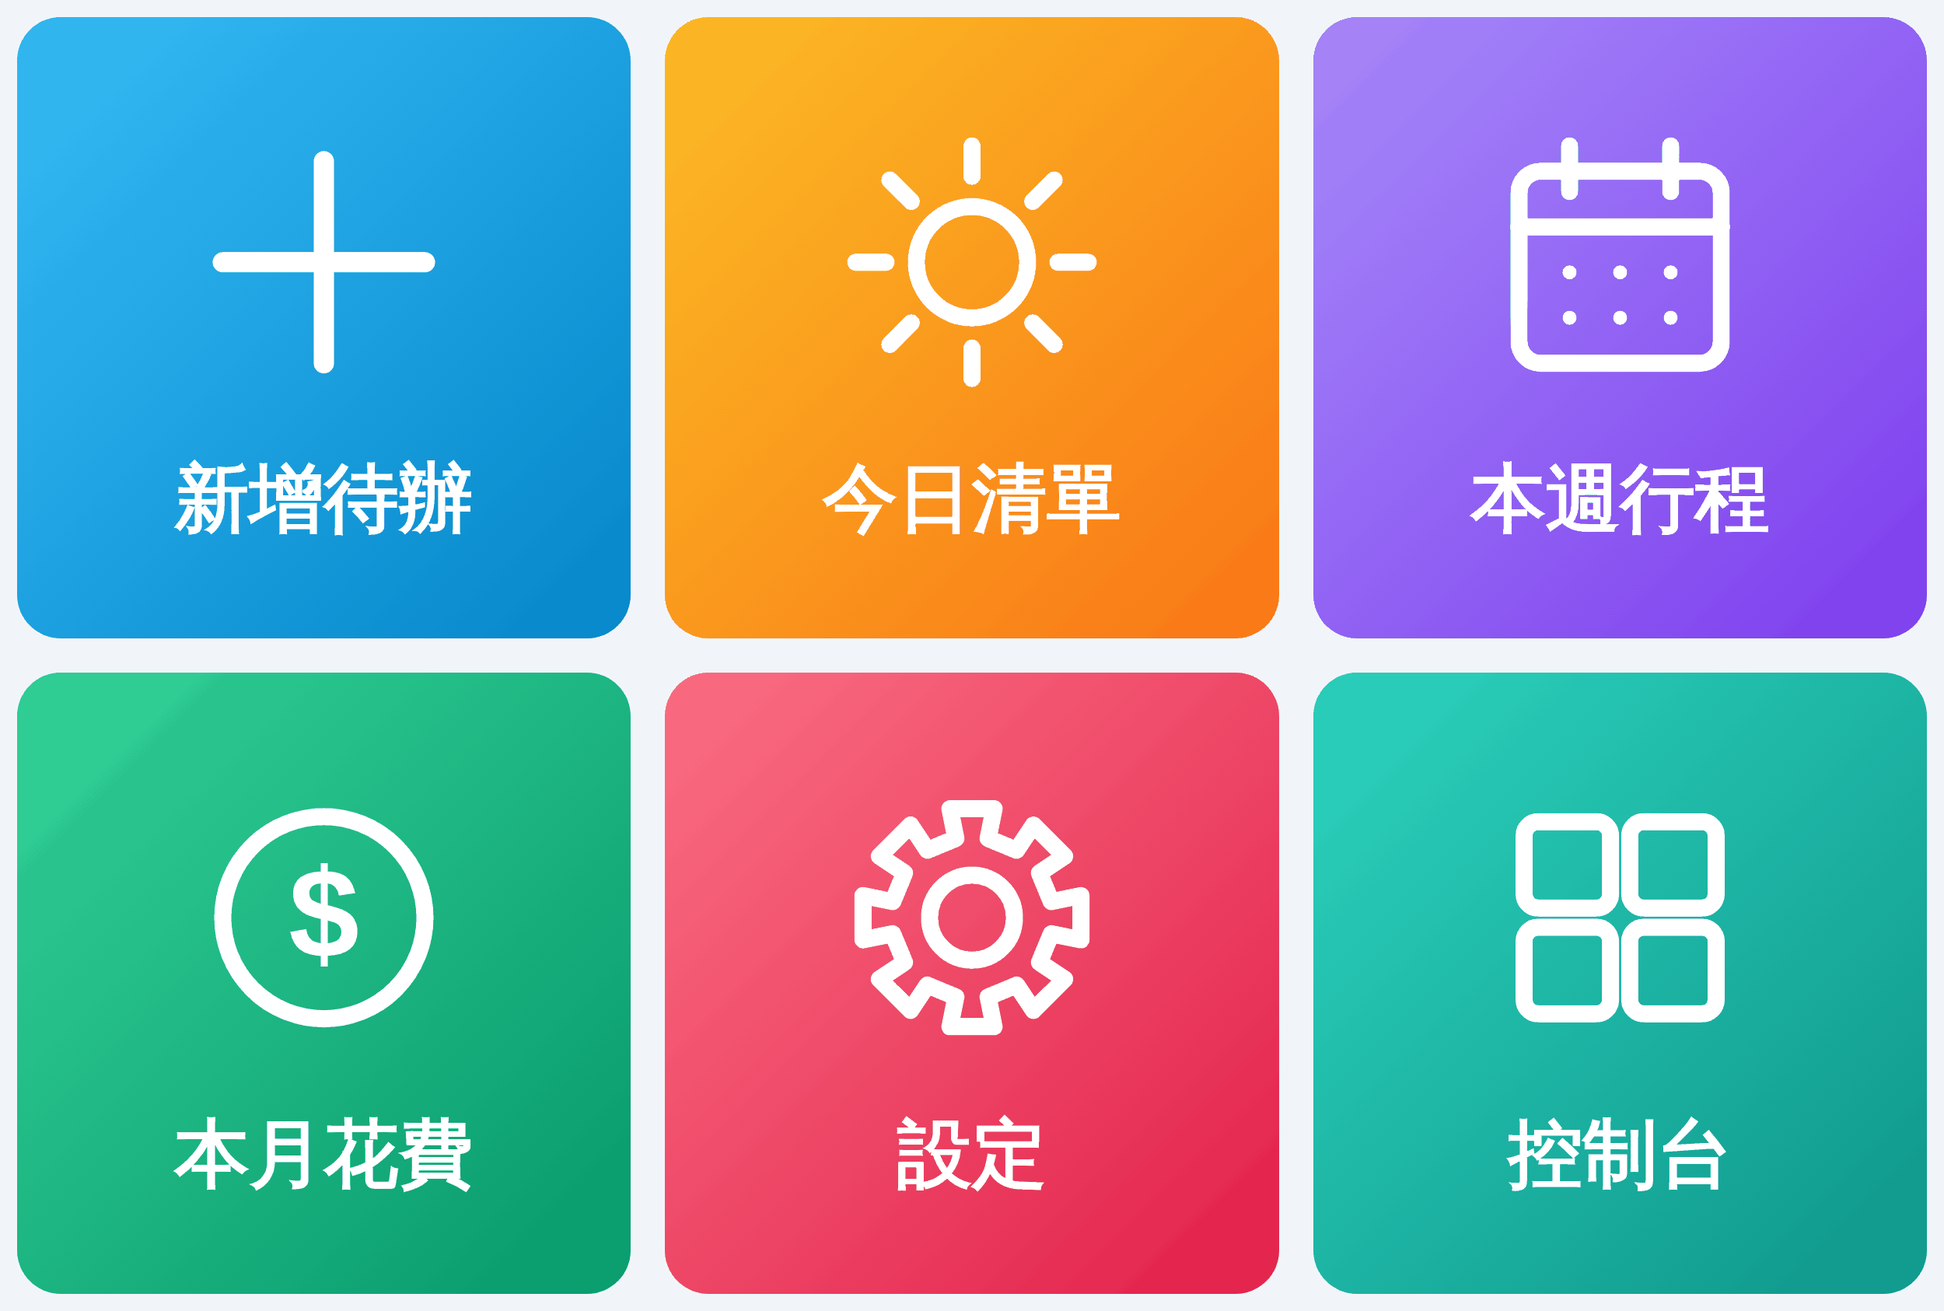
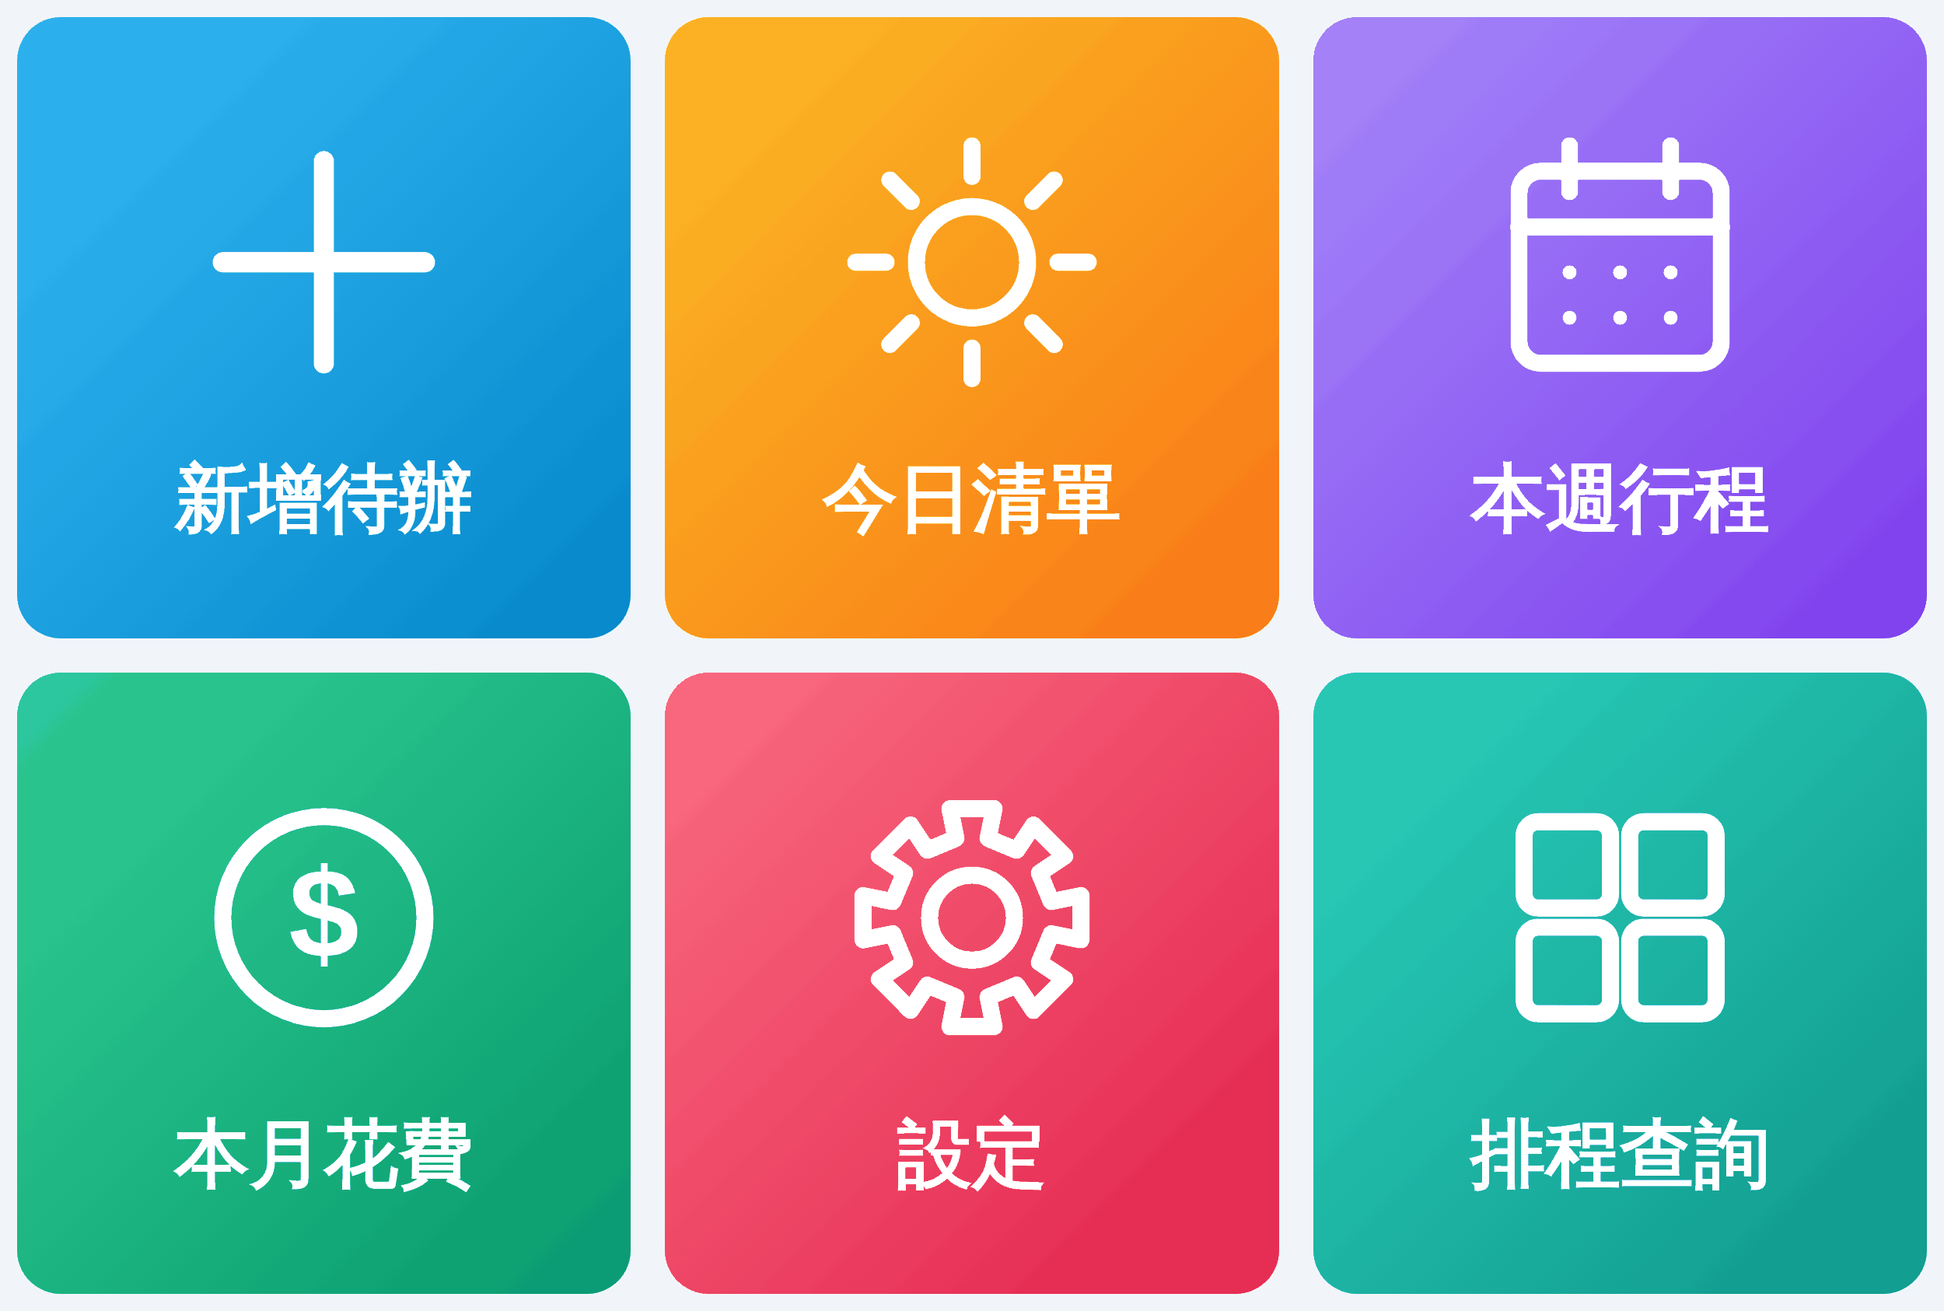
Add files via upload

Changed region(s): [[0.7488, 0.8327, 0.936, 0.9253]]

diff --git a/index.html b/index.html
@@ -3,7 +3,7 @@
 <head>
 <meta charset="utf-8">
 <meta name="viewport" content="width=device-width, initial-scale=1, viewport-fit=cover">
-<title>Chronos 控制台</title>
+<title>Chronos 排程查詢</title>
 <meta name="description" content="克羅諾斯智慧助理：待辦、日曆、記帳一站管理">
 <meta name="theme-color" content="#0ea5e9">
 <link rel="manifest" href="manifest.json">
@@ -53,6 +53,15 @@ section.view.on{display:block}
 .meta{display:flex;flex-wrap:wrap;gap:6px}
 .chip{background:var(--chip);border-radius:999px;padding:2px 10px;font-size:12.5px;color:var(--muted);word-break:break-all}
 .chip.warn{color:var(--warn);background:rgba(217,119,6,.12)}
+.warnline{margin-top:8px;font-size:13px;color:var(--warn);background:rgba(217,119,6,.12);border-radius:10px;padding:6px 10px}
+.r2{display:flex;gap:6px}.set .r2 input{width:auto;min-width:0;flex:1;padding:8px 6px;font-size:14px}.set .r2{flex:1;max-width:236px}
+.blk{border:1px solid var(--line);border-radius:12px;padding:10px;margin:8px 0}
+.blk .days{display:flex;gap:4px;flex-wrap:wrap;margin-bottom:8px}
+.blk .days button{width:36px;height:36px;border-radius:50%;border:1px solid var(--line);background:var(--card);color:var(--muted);font-weight:700}
+.blk .days button.on{background:#0ea5e9;border-color:#0ea5e9;color:#fff}
+.blk .r{display:flex;gap:6px;align-items:center;margin-top:6px}.blk .r input{min-width:0}
+.blk .r input[type=time]{min-width:0}
+.blk .r input.lb{flex:1.2}
 .actions{display:flex;gap:8px;margin-top:12px}
 .btn{border:1px solid var(--line);background:var(--card);border-radius:12px;padding:9px 14px;font-weight:600;cursor:pointer;min-height:42px}
 .btn:active{transform:scale(.98)}
@@ -286,7 +295,7 @@ async function api(act, data) {
 }
 function authExpired() {
   try { if (!liff.isInClient()) { liff.logout(); liff.login({ redirectUri: location.href.split("?")[0] }); return; } } catch (e) { /* ignore */ }
-  fatal({ title: "登入逾時", body: "請關閉這個視窗，再從 LINE 選單重新開啟控制台。" }, true);
+  fatal({ title: "登入逾時", body: "請關閉這個視窗，再從 LINE 選單重新開啟排程查詢。" }, true);
 }
 async function run(fn, okMsg) {
   if (S.busy) return;
@@ -317,6 +326,7 @@ function chips(t) {
 }
 function taskCard(t, pending) {
   return '<article class="task ' + (pending ? "pending" : t.overdue ? "overdue" : "") + '" data-id="' + esc(t.id) + '"><h3>' + esc(t.name) + '</h3><div class="meta">' + chips(t) + "</div>" +
+    (pending && t.warn ? '<div class="warnline">⏰ ' + esc(t.warn) + "</div>" : "") +
     (pending ? "" : '<div class="actions"><button class="btn primary" data-act="done">✅ 完成</button><button class="btn" data-act="cal">📅 日曆</button><button class="btn ghost" data-act="cancel">取消</button></div>') + "</article>";
 }
 function renderList() {
@@ -329,7 +339,9 @@ function renderList() {
   Object.keys(batches).forEach(b => {
     h += '<div class="batch" data-batch="' + esc(b) + '"><div class="t">🟣 待審核 · ' + batches[b].length + " 項</div>" +
       batches[b].map(t => taskCard(t, true)).join("") +
-      '<div class="actions"><button class="btn primary" data-act="approve">確認無誤</button><button class="btn" data-act="adjust">調整</button><button class="btn danger" data-act="cancelBatch">全部取消</button></div>' +
+      '<div class="actions"><button class="btn primary" data-act="approve">' + (batches[b].some(t => t.warn) ? "照樣加入" : "確認無誤") + "</button>" +
+      (batches[b].some(t => t.warn) ? '<button class="btn blue" data-act="slotBatch">幫我換空檔</button>' : "") +
+      '<button class="btn" data-act="adjust">調整</button><button class="btn danger" data-act="cancelBatch">全部取消</button></div>' +
       '<div class="adjust"><input maxlength="300" placeholder="例如：電池改後天買、報告移到最前面"><button class="btn blue" data-act="adjustGo">送出</button></div></div>';
   });
   const overdue = sched.filter(t => t.overdue);
@@ -366,6 +378,7 @@ async function loadExpenses() {
 function sel(id, opts, cur) { return '<select id="' + id + '">' + opts.map(o => '<option value="' + o[0] + '"' + (String(o[0]) === String(cur) ? " selected" : "") + ">" + o[1] + "</option>").join("") + "</select>"; }
 function renderSettings() {
   const me = S.me, s = me.settings;
+  S.blocks = (s.blocks || []).map(b => ({ d: b.d.slice(), f: b.f, t: b.t, l: b.l, c: b.c ? 1 : 0 }));
   const feed = me.feedUrl, web = feed.replace(/^https:/, "webcal:");
   const gcalSub = "https://calendar.google.com/calendar/r?cid=" + encodeURIComponent(web);
   const hours = []; for (let i = 6; i <= 22; i++) hours.push([i, (i < 10 ? "0" : "") + i + ":00"]);
@@ -377,6 +390,13 @@ function renderSettings() {
     '<div class="set"><div><b>預設時數</b><small>表單沒填時使用</small></div>' + sel("sHours", [[0.5, "0.5 小時"], [1, "1 小時"], [1.5, "1.5 小時"], [2, "2 小時"], [3, "3 小時"], [4, "4 小時"]], s.defHours) + "</div>" +
     '<div class="set"><div><b>預設開始時間</b><small>沒指定時段與時間時使用</small></div>' + sel("sStart", hours, s.defStart) + "</div></div>" +
 
+    '<div class="card"><b>作息與時間提醒</b><p class="note">設定後，新增的事情撞到睡眠或固定時段會提醒你，日曆提醒也會避開睡眠時間。不想設定可以留空。</p>' +
+    '<div class="set"><div><b>睡眠</b><small>睡 → 起</small></div><div class="r2"><input type="time" id="sSleepA" value="' + esc(sleepPart(s.sleep, 0)) + '"><input type="time" id="sSleepB" value="' + esc(sleepPart(s.sleep, 1)) + '"></div></div>' +
+    '<div class="set"><div><b>國定假日不算固定時段</b><small>假日當天不檢查上班、上課等固定時段</small></div><label class="sw"><input type="checkbox" id="sHoliday"' + (s.holiday ? " checked" : "") + "><i></i></label></div>" +
+    '<div class="set"><div><b>LINE 提醒</b><small>任務前 1 小時推播；沒確認的待辦時間到會再提醒（會用到 LINE 推播額度）</small></div><label class="sw"><input type="checkbox" id="sPush"' + (s.remindPush ? " checked" : "") + "><i></i></label></div>" +
+    '<div class="set"><div><b>撞到時自動換空檔</b><small>關閉時只提醒，由你決定要不要照樣加入</small></div><label class="sw"><input type="checkbox" id="sSlot"' + (s.slotAuto ? " checked" : "") + "><i></i></label></div>" +
+    '<div style="margin-top:6px"><b>固定時段</b><small class="note" style="display:block">例如上班、上課、運動。在 LINE 傳課表截圖，上課時段會自動放進來（📚）。</small><div id="blkList">' + blocksHtml() + '</div><button class="btn" id="blkAdd">＋ 新增固定時段</button></div></div>' +
+
     '<div class="card"><b>日曆自動訂閱 <span class="chip">實驗性</span></b><p class="note">訂閱一次，之後排程的事項會自動出現在你的日曆。但 Google 日曆更新訂閱常會延遲數小時，要即時請用任務卡上的「加入日曆」。這個網址等同你的專屬金鑰，請不要分享給別人。</p>' +
     '<div class="qrow"><button class="btn" id="subCopy">複製訂閱網址</button><button class="btn" data-open="' + esc(gcalSub) + '">加到 Google 日曆</button><button class="btn" data-open="' + esc(web) + '">iPhone 訂閱</button></div></div>' +
 
@@ -387,13 +407,28 @@ function renderSettings() {
     '<p class="note" style="text-align:center">' + esc(me.name || "") + (me.admin ? " · 管理者" : "") + '</p>' +
     '<div class="qrow" style="justify-content:center">' + (liff.isInClient() ? '<button class="btn ghost" id="closeWin">關閉視窗，回到聊天</button>' : '<button class="btn ghost" id="logout">登出</button>') + "</div>";
 }
+function sleepPart(v, i) { const p = String(v || "").split("-"); return p.length === 2 ? p[i] : ""; }
+const DAYN = ["一", "二", "三", "四", "五", "六", "日"];
+function blocksHtml() {
+  const bl = S.blocks || [];
+  if (!bl.length) return '<p class="note">還沒有固定時段。</p>';
+  return bl.map((b, i) => '<div class="blk" data-i="' + i + '" data-c="' + (b.c ? 1 : 0) + '"><div class="days">' + DAYN.map((n, k) => '<button type="button" data-day="' + (k + 1) + '" class="' + (b.d.indexOf(k + 1) !== -1 ? "on" : "") + '">' + n + "</button>").join("") + "</div>" +
+    '<div class="r"><input type="time" class="bf" value="' + esc(b.f) + '"><span>–</span><input type="time" class="bt" value="' + esc(b.t) + '"></div><div class="r"><input class="lb" maxlength="12" value="' + esc(b.l) + '" placeholder="名稱，例如上班"><button type="button" class="btn ghost" data-blkdel="' + i + '" aria-label="刪除">✕ 刪除</button></div></div>').join("");
+}
+function readBlocks() {
+  return $$("#blkList .blk").map(el => ({
+    d: $$("[data-day].on", el).map(b => +b.dataset.day), f: $(".bf", el).value, t: $(".bt", el).value, l: $(".lb", el).value.trim() || "固定時段", c: +el.dataset.c || 0
+  })).filter(b => b.d.length && b.f && b.t && b.f < b.t);
+}
 let saveTimer = null;
 function saveSettings() {
   clearTimeout(saveTimer);
   saveTimer = setTimeout(async () => {
-    const settings = { auto: $("#sAuto").checked, ai: $("#sAi").checked, remind: +$("#sRemind").value, defHours: +$("#sHours").value, defStart: +$("#sStart").value };
+    const a = $("#sSleepA").value, b = $("#sSleepB").value;
+    const settings = { auto: $("#sAuto").checked, ai: $("#sAi").checked, remind: +$("#sRemind").value, defHours: +$("#sHours").value, defStart: +$("#sStart").value,
+      holiday: $("#sHoliday").checked, slotAuto: $("#sSlot").checked, remindPush: $("#sPush").checked, sleep: (a && b && a !== b) ? a + "-" + b : "", blocks: readBlocks() };
     const j = await run(() => api("saveSettings", { settings: settings }), "已儲存");
-    if (j && j.me) { S.me = j.me; syncAiUi(); }
+    if (j && j.me) { S.me = j.me; S.blocks = j.me.settings.blocks || []; syncAiUi(); }
   }, 350);
 }
 function syncAiUi() {
@@ -534,12 +569,25 @@ document.addEventListener("click", async e => {
   if (batchEl) {
     const batch = batchEl.dataset.batch;
     if (act === "approve") return run(() => api("approve", { batch: batch }), j => "已排程 " + j.count + " 項，點卡片的「日曆」加入你的日曆");
+    if (act === "slotBatch") return run(() => api("slotBatch", { batch: batch }), j => j.moved ? "已換到空檔，請再確認一次" : "沒有可換的空檔（7 天內都排不進去）");
     if (act === "cancelBatch") { if (confirm("確定全部取消？")) run(() => api("cancelBatch", { batch: batch }), "已作廢"); return; }
     if (act === "adjust") { $(".adjust", batchEl).classList.toggle("on"); const i = $(".adjust input", batchEl); if (i) i.focus(); return; }
     if (act === "adjustGo") { const text = $(".adjust input", batchEl).value.trim(); if (!text) return toast("請輸入要調整的內容", true); return run(() => api("adjust", { batch: batch, text: text }), "已重新整理，請再確認一次"); }
   }
 });
-document.addEventListener("change", e => { if (["sAuto", "sAi", "sRemind", "sHours", "sStart"].indexOf(e.target.id) !== -1) saveSettings(); });
+document.addEventListener("change", e => {
+  if (["sAuto", "sAi", "sRemind", "sHours", "sStart", "sSleepA", "sSleepB", "sHoliday", "sSlot", "sPush"].indexOf(e.target.id) !== -1 || e.target.closest("#blkList")) saveSettings();
+});
+document.addEventListener("click", e => {
+  const dayBtn = e.target.closest("#blkList [data-day]");
+  if (dayBtn) { dayBtn.classList.toggle("on"); return saveSettings(); }
+  const del = e.target.closest("[data-blkdel]");
+  if (del) { S.blocks = readBlocks(); S.blocks.splice(+del.dataset.blkdel, 1); $("#blkList").innerHTML = blocksHtml(); return saveSettings(); }
+  if (e.target.id === "blkAdd") {
+    S.blocks = readBlocks(); S.blocks.push({ d: [1, 2, 3, 4, 5], f: "09:00", t: "18:00", l: "上班" });
+    $("#blkList").innerHTML = blocksHtml(); return saveSettings();
+  }
+});
 document.addEventListener("click", async e => {
   const id = e.target.id;
   if (id === "smartGo") { const text = $("#smartText").value.trim(); if (!text) return toast("先輸入想做的事", true); return submitParse({ text: text }); }
@@ -548,7 +596,7 @@ document.addEventListener("click", async e => {
     const body = { name: $("#fName").value, date: $("#fDate").value, time: $("#fTime").value, hours: $("#fHours").value, budget: $("#fBudget").value, location: $("#fLoc").value, category: $("#fCat").value };
     if (!body.name.trim()) return toast("請填任務名稱", true);
     if (!body.date) return toast("請選擇日期", true);
-    const j = await run(() => api("addForm", body), "已加入清單 ✔");
+    const j = await run(() => api("addForm", body), j => j.warn ? "已加入，但提醒你：" + j.warn : "已加入清單 ✔");
     if (j && j.ok) { ["fName", "fTime", "fBudget", "fLoc", "fCat"].forEach(i => { $("#" + i).value = ""; }); go("list"); }
     return;
   }
@@ -561,7 +609,7 @@ document.addEventListener("click", async e => {
     if ($("#delTxt").value.trim() !== "刪除") return toast("請輸入「刪除」兩個字", true);
     $("#ovDel").classList.remove("on");
     const j = await run(() => api("deleteMe", { confirm: "DELETE" }));
-    if (j && j.ok) fatal({ title: "資料已全部刪除", body: "謝謝你使用克羅諾斯。之後想再用，從 LINE 開啟控制台就會重新開始。" });
+    if (j && j.ok) fatal({ title: "資料已全部刪除", body: "謝謝你使用克羅諾斯。之後想再用，從 LINE 開啟排程查詢就會重新開始。" });
     return;
   }
   if (id === "closeWin") return liff.closeWindow();

diff --git a/menu.html b/menu.html
@@ -1,0 +1,73 @@
+<!doctype html>
+<html lang="zh-Hant">
+<head>
+<meta charset="utf-8">
+<meta name="viewport" content="width=device-width, initial-scale=1">
+<title>Chronos 圖文選單產生器</title>
+<style>
+body{margin:0;padding:16px;font-family:-apple-system,"Noto Sans TC","PingFang TC","Microsoft JhengHei",sans-serif;background:#f2f9fb;color:#16313a}
+h1{font-size:18px}
+canvas{width:100%;max-width:720px;border-radius:12px;border:1px solid #cfe3ea;display:block}
+button{margin-top:14px;padding:12px 20px;font-size:16px;border:0;border-radius:10px;background:#0ea5c6;color:#fff;font-weight:700}
+p{color:#5a747e;font-size:14px;max-width:720px}
+</style>
+</head>
+<body>
+<h1>Chronos 圖文選單產生器</h1>
+<p>預覽沒問題就按下載，得到 2500×1686 的 PNG，再依設定清單上傳到 Google 雲端硬碟。</p>
+<canvas id="c" width="2500" height="1686"></canvas>
+<button id="dl">下載 PNG</button>
+<script>
+const W = 2500, H = 1686;
+const cv = document.getElementById("c");
+const ctx = cv.getContext("2d");
+const widths = [833, 833, 834];
+const cells = [
+  { e: "📝", t: "新增待辦", c: "#0ea5c6" },
+  { e: "📋", t: "今日清單", c: "#14b8a6" },
+  { e: "📅", t: "本週行程", c: "#0b8fb0" },
+  { e: "💰", t: "本月花費", c: "#12a59a" },
+  { e: "⚙", t: "設定", c: "#0c7f9c" },
+  { e: "🧭", t: "開啟控制台", c: "#0f8f86" }
+];
+
+function draw() {
+  ctx.fillStyle = "#ffffff";
+  ctx.fillRect(0, 0, W, H);
+  cells.forEach((cell, i) => {
+    const col = i % 3, row = Math.floor(i / 3);
+    const x = widths.slice(0, col).reduce((s, w) => s + w, 0);
+    const y = row * 843, w = widths[col], h = 843;
+    ctx.fillStyle = cell.c;
+    ctx.fillRect(x, y, w, h);
+    ctx.textAlign = "center";
+    ctx.textBaseline = "middle";
+    ctx.fillStyle = "#ffffff";
+    ctx.font = "260px 'Apple Color Emoji','Segoe UI Emoji','Noto Color Emoji',sans-serif";
+    ctx.fillText(cell.e, x + w / 2, y + h / 2 - 90);
+    ctx.font = "bold 120px 'PingFang TC','Noto Sans TC','Microsoft JhengHei',sans-serif";
+    ctx.fillText(cell.t, x + w / 2, y + h / 2 + 200);
+  });
+  ctx.strokeStyle = "#ffffff";
+  ctx.lineWidth = 8;
+  ctx.beginPath();
+  ctx.moveTo(833, 0); ctx.lineTo(833, H);
+  ctx.moveTo(1666, 0); ctx.lineTo(1666, H);
+  ctx.moveTo(0, 843); ctx.lineTo(W, 843);
+  ctx.stroke();
+}
+
+(document.fonts && document.fonts.ready ? document.fonts.ready : Promise.resolve()).then(draw);
+draw();
+
+document.getElementById("dl").onclick = () => {
+  cv.toBlob((b) => {
+    const a = document.createElement("a");
+    a.href = URL.createObjectURL(b);
+    a.download = "chronos-richmenu.png";
+    a.click();
+  }, "image/png");
+};
+</script>
+</body>
+</html>

diff --git a/sw.js b/sw.js
@@ -1,29 +1,31 @@
-/* Chronos service worker：網路優先，離線時才用快取的外殼頁面。
- * 不快取任何跨網域請求（GAS API、LINE SDK），所以不會看到過期資料。 */
-const CACHE = "chronos-v1";
+// 簡單的 Service Worker：網路優先，斷線時才用快取的介面外殼。
+// 不會快取任何 GAS（跨網域）請求，所以不會看到過期的待辦資料。
+const CACHE = "chronos-shell-v1";
 const SHELL = ["./", "index.html", "manifest.json", "icon-192.png"];
 
-self.addEventListener("install", e => {
-  e.waitUntil(caches.open(CACHE).then(c => c.addAll(SHELL)).then(() => self.skipWaiting()));
+self.addEventListener("install", (e) => {
+  e.waitUntil(caches.open(CACHE).then((c) => c.addAll(SHELL)).then(() => self.skipWaiting()));
 });
 
-self.addEventListener("activate", e => {
+self.addEventListener("activate", (e) => {
   e.waitUntil(
     caches.keys()
-      .then(keys => Promise.all(keys.filter(k => k !== CACHE).map(k => caches.delete(k))))
+      .then((keys) => Promise.all(keys.filter((k) => k !== CACHE).map((k) => caches.delete(k))))
       .then(() => self.clients.claim())
   );
 });
 
-self.addEventListener("fetch", e => {
+self.addEventListener("fetch", (e) => {
   const req = e.request;
-  if (req.method !== "GET" || new URL(req.url).origin !== self.location.origin) return;
+  const url = new URL(req.url);
+  if (req.method !== "GET" || url.origin !== location.origin) return;
   e.respondWith(
     fetch(req)
-      .then(res => {
-        if (res.ok) { const copy = res.clone(); caches.open(CACHE).then(c => c.put(req, copy)); }
+      .then((res) => {
+        const copy = res.clone();
+        caches.open(CACHE).then((c) => c.put(req, copy));
         return res;
       })
-      .catch(() => caches.match(req, { ignoreSearch: true }).then(r => r || caches.match("index.html")))
+      .catch(() => caches.match(req).then((r) => r || caches.match("index.html")))
   );
 });
